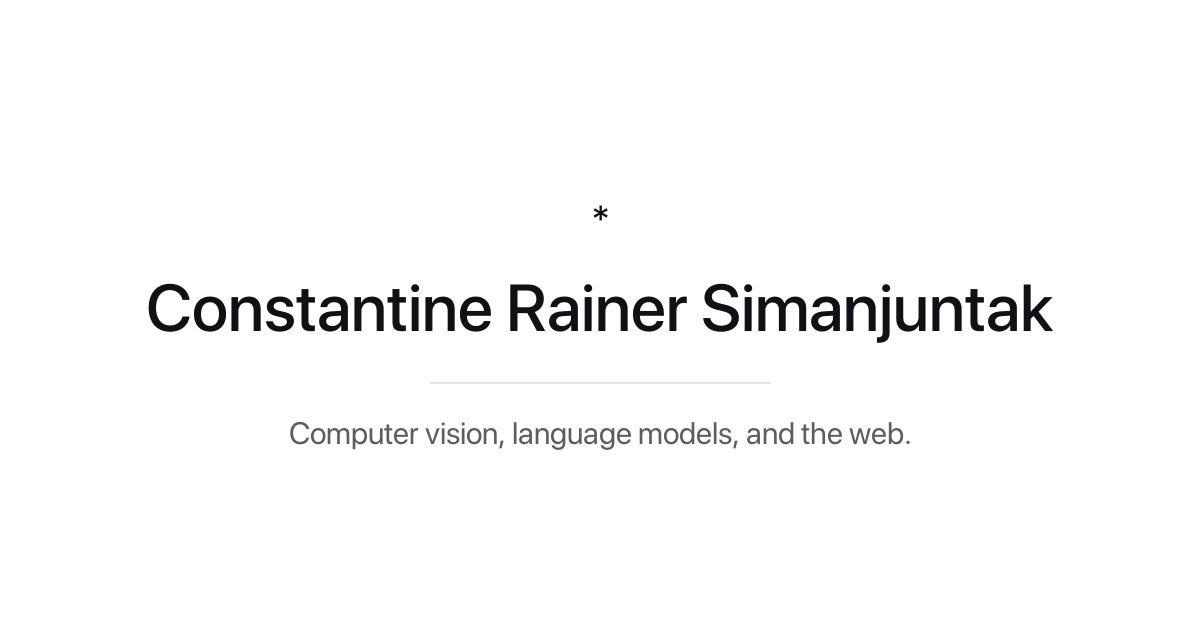
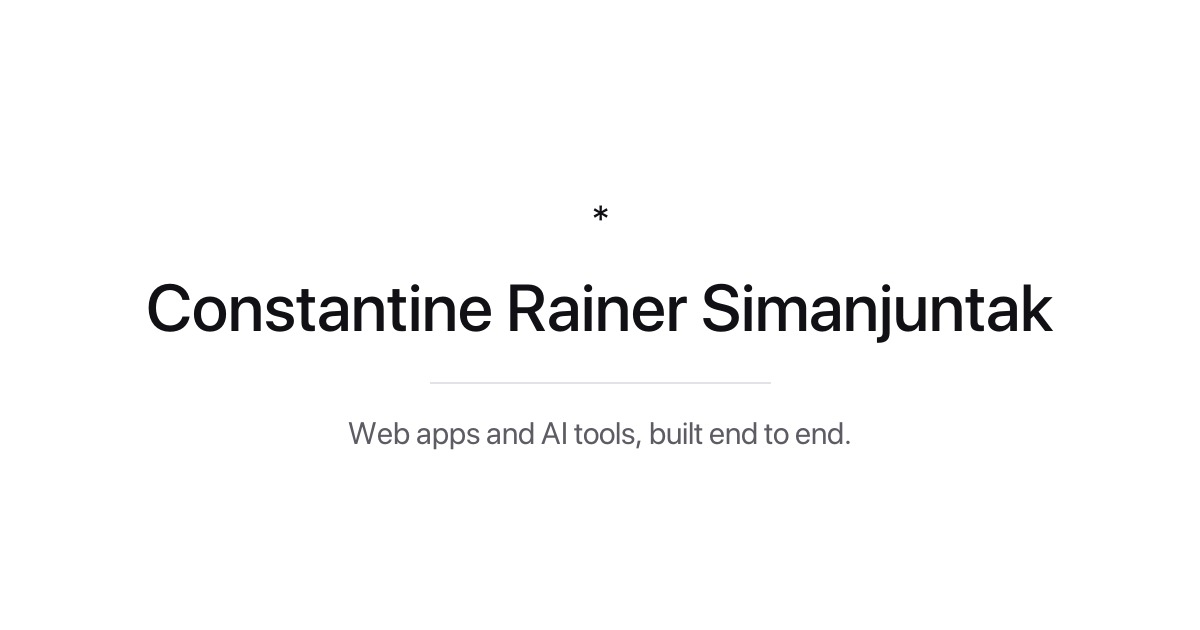
Satukan alamat, dan isi portfolio dengan karya yang ada
Halaman pakai rainersimanjuntak59@gmail.com sekarang, sama dengan yang
dipakai di commit -- orang yang datang dari GitHub dan dari situs tidak lagi
melihat dua alamat berbeda.

Daftar proyeknya diganti dengan yang benar-benar ada: lensa, artvault, uang
jajan tracker, situs SMK Telkom Purwokerto, dan ai text summarizer. Diganti
di tiga tempat sekaligus -- halaman portfolio, tile kanvas, dan paragraf
about -- karena ketiganya harus sepakat atau situsnya membantah dirinya
sendiri. Deskripsi halaman ikut, sebab yang lama menyebut computer vision
dan proyek yang menopangnya sudah tidak ada di sini.

Changed region(s): [[0.2467, 0.6635, 0.7708, 0.7238]]

diff --git a/index.html b/index.html
@@ -4,7 +4,7 @@
 <meta charset="utf-8">
 <meta name="viewport" content="width=device-width, initial-scale=1, viewport-fit=cover">
 <title>Constantine Rainer Simanjuntak</title>
-<meta name="description" content="Constantine Rainer Simanjuntak — PPLG student at SMK Telkom Purwokerto. Computer vision, language models, and the web.">
+<meta name="description" content="Constantine Rainer Simanjuntak — PPLG student at SMK Telkom Purwokerto. Web apps and AI tools, built end to end.">
 <meta name="theme-color" content="#ffffff" media="(prefers-color-scheme: light)">
 <meta name="theme-color" content="#ffffff">
 <link rel="canonical" href="https://constanvel.github.io/Portofolio-Camera/">
@@ -17,7 +17,7 @@
 <meta property="og:type" content="website">
 <meta property="og:url" content="https://constanvel.github.io/Portofolio-Camera/">
 <meta property="og:title" content="Constantine Rainer Simanjuntak">
-<meta property="og:description" content="PPLG student at SMK Telkom Purwokerto. Computer vision, language models, and the web.">
+<meta property="og:description" content="PPLG student at SMK Telkom Purwokerto. Web apps and AI tools, built end to end.">
 <meta property="og:image" content="https://constanvel.github.io/Portofolio-Camera/assets/og.jpg">
 <meta property="og:image:width" content="1200">
 <meta property="og:image:height" content="630">
@@ -98,9 +98,9 @@
     <div class="page__in">
       <h1 class="page__t">about</h1>
       <p class="page__p" id="aboutBody">Constantine Rainer Simanjuntak — PPLG, SMK Telkom Purwokerto. I build for the
-      web with React, Tailwind and Node, and work on computer vision and language
-      models in the school AI club: pothole detection with YOLO, a retrieval-augmented
-      chatbot, and a Llama-3.3-70B assistant. Finalist in the UI/UX Design
+      web with React, Tailwind and Node — a reading and essay platform, an art
+      community, my school&rsquo;s own site, a spending tracker — and AI tools on top
+      of open models. Finalist in the UI/UX Design
       competition at Sevent 9.0, Telkom University Purwokerto. Off the clock I make
       aesthetic desktop videos for TikTok, usually to something shoegaze.</p>
       <button class="page__back" type="button" data-back>back</button>
@@ -126,11 +126,11 @@
       <h1 class="page__t">portfolio</h1>
       <p class="page__p">The work itself tiles across the home canvas — drag it. The short version:</p>
       <ul class="rows">
-        <li class="rows__r"><span class="rows__k">lensa</span><span class="rows__v">Computer-vision project built with the school AI club.</span></li>
-        <li class="rows__r"><span class="rows__k">artvault</span><span class="rows__v">A UI/UX product concept, designed end to end.</span></li>
-        <li class="rows__r"><span class="rows__k">pothole detection</span><span class="rows__v">A YOLO model that finds road damage in road footage.</span></li>
-        <li class="rows__r"><span class="rows__k">rag chatbot</span><span class="rows__v">A retrieval-augmented assistant answering over a private document set.</span></li>
-        <li class="rows__r"><span class="rows__k">llama assistant</span><span class="rows__v">An assistant built on Llama 3.3 70B.</span></li>
+        <li class="rows__r"><span class="rows__k">lensa</span><span class="rows__v">A place to read and write about characters and works — essays, read through six lenses.</span></li>
+        <li class="rows__r"><span class="rows__k">artvault</span><span class="rows__v">An art community: uploads, discovery, rankings, commissions and contests.</span></li>
+        <li class="rows__r"><span class="rows__k">uang jajan tracker</span><span class="rows__v">A spending tracker for a phone — money in, money out, by category.</span></li>
+        <li class="rows__r"><span class="rows__k">smk telkom purwokerto</span><span class="rows__v">The school site: admissions, majors, the job centre, and two assistants.</span></li>
+        <li class="rows__r"><span class="rows__k">ai text summarizer</span><span class="rows__v">Long text in, a short summary out, at three lengths. Runs on Groq.</span></li>
       </ul>
       <a class="page__cta" href="#/">see the canvas</a>
       <button class="page__back" type="button" data-back>back</button>
@@ -206,7 +206,7 @@
            here too it marks a line that goes somewhere. Add a row by copying
            one; the stagger already handles a list of any length. -->
       <ul class="rows">
-        <li class="rows__r"><span class="rows__k"><svg class="rows__i" viewBox="0 0 24 24" aria-hidden="true" focusable="false"><path d="M24 5.457v13.909c0 .904-.732 1.636-1.636 1.636h-3.819V11.73L12 16.64l-6.545-4.91v9.273H1.636A1.636 1.636 0 0 1 0 19.366V5.457c0-2.023 2.309-3.178 3.927-1.964L5.455 4.64 12 9.548l6.545-4.91 1.528-1.145C21.69 2.28 24 3.434 24 5.457z"/></svg>email</span><span class="rows__v"><a class="rows__a" href="mailto:eyesplague@gmail.com">eyesplague@gmail.com</a></span></li>
+        <li class="rows__r"><span class="rows__k"><svg class="rows__i" viewBox="0 0 24 24" aria-hidden="true" focusable="false"><path d="M24 5.457v13.909c0 .904-.732 1.636-1.636 1.636h-3.819V11.73L12 16.64l-6.545-4.91v9.273H1.636A1.636 1.636 0 0 1 0 19.366V5.457c0-2.023 2.309-3.178 3.927-1.964L5.455 4.64 12 9.548l6.545-4.91 1.528-1.145C21.69 2.28 24 3.434 24 5.457z"/></svg>email</span><span class="rows__v"><a class="rows__a" href="mailto:rainersimanjuntak59@gmail.com">rainersimanjuntak59@gmail.com</a></span></li>
         <li class="rows__r"><span class="rows__k"><svg class="rows__i" viewBox="0 0 24 24" aria-hidden="true" focusable="false"><path d="M12 .297c-6.63 0-12 5.373-12 12 0 5.303 3.438 9.8 8.205 11.385.6.113.82-.258.82-.577 0-.285-.01-1.04-.015-2.04-3.338.724-4.042-1.61-4.042-1.61C4.422 18.07 3.633 17.7 3.633 17.7c-1.087-.744.084-.729.084-.729 1.205.084 1.838 1.236 1.838 1.236 1.07 1.835 2.809 1.305 3.495.998.108-.776.417-1.305.76-1.605-2.665-.3-5.466-1.332-5.466-5.93 0-1.31.465-2.38 1.235-3.22-.135-.303-.54-1.523.105-3.176 0 0 1.005-.322 3.3 1.23.96-.267 1.98-.399 3-.405 1.02.006 2.04.138 3 .405 2.28-1.552 3.285-1.23 3.285-1.23.645 1.653.24 2.873.12 3.176.765.84 1.23 1.91 1.23 3.22 0 4.61-2.805 5.625-5.475 5.92.42.36.81 1.096.81 2.22 0 1.606-.015 2.896-.015 3.286 0 .315.21.69.825.57C20.565 22.092 24 17.592 24 12.297c0-6.627-5.373-12-12-12"/></svg>github</span><span class="rows__v"><a class="rows__a" href="https://github.com/Constanvel" target="_blank" rel="noopener">github.com/Constanvel</a></span></li>
         <!-- wa.me takes the country code with no + and no leading 0, so
              081617800000 is written 6281617800000. The visible text keeps the
@@ -215,7 +215,7 @@
         <li class="rows__r"><span class="rows__k"><svg class="rows__i" viewBox="0 0 24 24" aria-hidden="true" focusable="false"><path d="M7.0301.084c-1.2768.0602-2.1487.264-2.911.5634-.7888.3075-1.4575.72-2.1228 1.3877-.6652.6677-1.075 1.3368-1.3802 2.127-.2954.7638-.4956 1.6365-.552 2.914-.0564 1.2775-.0689 1.6882-.0626 4.947.0062 3.2586.0206 3.6671.0825 4.9473.061 1.2765.264 2.1482.5635 2.9107.308.7889.72 1.4573 1.388 2.1228.6679.6655 1.3365 1.0743 2.1285 1.38.7632.295 1.6361.4961 2.9134.552 1.2773.056 1.6884.069 4.9462.0627 3.2578-.0062 3.668-.0207 4.9478-.0814 1.28-.0607 2.147-.2652 2.9098-.5633.7889-.3086 1.4578-.72 2.1228-1.3881.665-.6682 1.0745-1.3378 1.3795-2.1284.2957-.7632.4966-1.636.552-2.9124.056-1.2809.0692-1.6898.063-4.948-.0063-3.2583-.021-3.6668-.0817-4.9465-.0607-1.2797-.264-2.1487-.5633-2.9117-.3084-.7889-.72-1.4568-1.3876-2.1228C21.2982 1.33 20.628.9208 19.8378.6165 19.074.321 18.2017.1197 16.9244.0645 15.6471.0093 15.236-.005 11.977.0014 8.718.0076 8.31.0215 7.0301.0839m.1402 21.6932c-1.17-.0509-1.8053-.2453-2.2287-.408-.5606-.216-.96-.4771-1.3819-.895-.422-.4178-.6811-.8186-.9-1.378-.1644-.4234-.3624-1.058-.4171-2.228-.0595-1.2645-.072-1.6442-.079-4.848-.007-3.2037.0053-3.583.0607-4.848.05-1.169.2456-1.805.408-2.2282.216-.5613.4762-.96.895-1.3816.4188-.4217.8184-.6814 1.3783-.9003.423-.1651 1.0575-.3614 2.227-.4171 1.2655-.06 1.6447-.072 4.848-.079 3.2033-.007 3.5835.005 4.8495.0608 1.169.0508 1.8053.2445 2.228.408.5608.216.96.4754 1.3816.895.4217.4194.6816.8176.9005 1.3787.1653.4217.3617 1.056.4169 2.2263.0602 1.2655.0739 1.645.0796 4.848.0058 3.203-.0055 3.5834-.061 4.848-.051 1.17-.245 1.8055-.408 2.2294-.216.5604-.4763.96-.8954 1.3814-.419.4215-.8181.6811-1.3783.9-.4224.1649-1.0577.3617-2.2262.4174-1.2656.0595-1.6448.072-4.8493.079-3.2045.007-3.5825-.006-4.848-.0608M16.953 5.5864A1.44 1.44 0 1 0 18.39 4.144a1.44 1.44 0 0 0-1.437 1.4424M5.8385 12.012c.0067 3.4032 2.7706 6.1557 6.173 6.1493 3.4026-.0065 6.157-2.7701 6.1506-6.1733-.0065-3.4032-2.771-6.1565-6.174-6.1498-3.403.0067-6.156 2.771-6.1496 6.1738M8 12.0077a4 4 0 1 1 4.008 3.9921A3.9996 3.9996 0 0 1 8 12.0077"/></svg>instagram</span><span class="rows__v"><a class="rows__a" href="https://instagram.com/constanvel" target="_blank" rel="noopener">@constanvel</a></span></li>
         <li class="rows__r"><span class="rows__k"><svg class="rows__i" viewBox="0 0 24 24" aria-hidden="true" focusable="false"><path d="M12.525.02c1.31-.02 2.61-.01 3.91-.02.08 1.53.63 3.09 1.75 4.17 1.12 1.11 2.7 1.62 4.24 1.79v4.03c-1.44-.05-2.89-.35-4.2-.97-.57-.26-1.1-.59-1.62-.93-.01 2.92.01 5.84-.02 8.75-.08 1.4-.54 2.79-1.35 3.94-1.31 1.92-3.58 3.17-5.91 3.21-1.43.08-2.86-.31-4.08-1.03-2.02-1.19-3.44-3.37-3.65-5.71-.02-.5-.03-1-.01-1.49.18-1.9 1.12-3.72 2.58-4.96 1.66-1.44 3.98-2.13 6.15-1.72.02 1.48-.04 2.96-.04 4.44-.99-.32-2.15-.23-3.02.37-.63.41-1.11 1.04-1.36 1.75-.21.51-.15 1.07-.14 1.61.24 1.64 1.82 3.02 3.5 2.87 1.12-.01 2.19-.66 2.77-1.61.19-.33.4-.67.41-1.06.1-1.79.06-3.57.07-5.36.01-4.03-.01-8.05.02-12.07z"/></svg>tiktok</span><span class="rows__v"><a class="rows__a" href="https://tiktok.com/@constanvel" target="_blank" rel="noopener">@constanvel</a></span></li>
       </ul>
-      <a class="page__cta" id="mailCta" href="mailto:eyesplague@gmail.com">write to me</a>
+      <a class="page__cta" id="mailCta" href="mailto:rainersimanjuntak59@gmail.com">write to me</a>
       <button class="page__back" type="button" data-back>back</button>
     </div>
   </section>

diff --git a/js/data.js b/js/data.js
@@ -8,11 +8,11 @@
 // The extension in `src` is not decoration: it is how canvas.js decides between
 // an <img> and a <video>, so a .png dropped in under a .jpg name loads neither.
 export const WORKS = [
-  { src: './assets/tiles/lensa.jpg',             label: 'lensa' },
-  { src: './assets/tiles/artvault.jpg',          label: 'artvault' },
-  { src: './assets/tiles/pothole-detection.jpg', label: 'pothole detection' },
-  { src: './assets/tiles/rag-chatbot.jpg',       label: 'rag chatbot' },
-  { src: './assets/tiles/llama-assistant.jpg',   label: 'llama assistant' }
+  { src: './assets/tiles/lensa.jpg',                 label: 'lensa' },
+  { src: './assets/tiles/artvault.jpg',              label: 'artvault' },
+  { src: './assets/tiles/uang-jajan-tracker.jpg',    label: 'uang jajan tracker' },
+  { src: './assets/tiles/smk-telkom-purwokerto.jpg', label: 'smk telkom purwokerto' },
+  { src: './assets/tiles/ai-text-summarizer.jpg',    label: 'ai text summarizer' }
 ];
 
 // Text cards live in the same grid as the films and are clickable. One per
